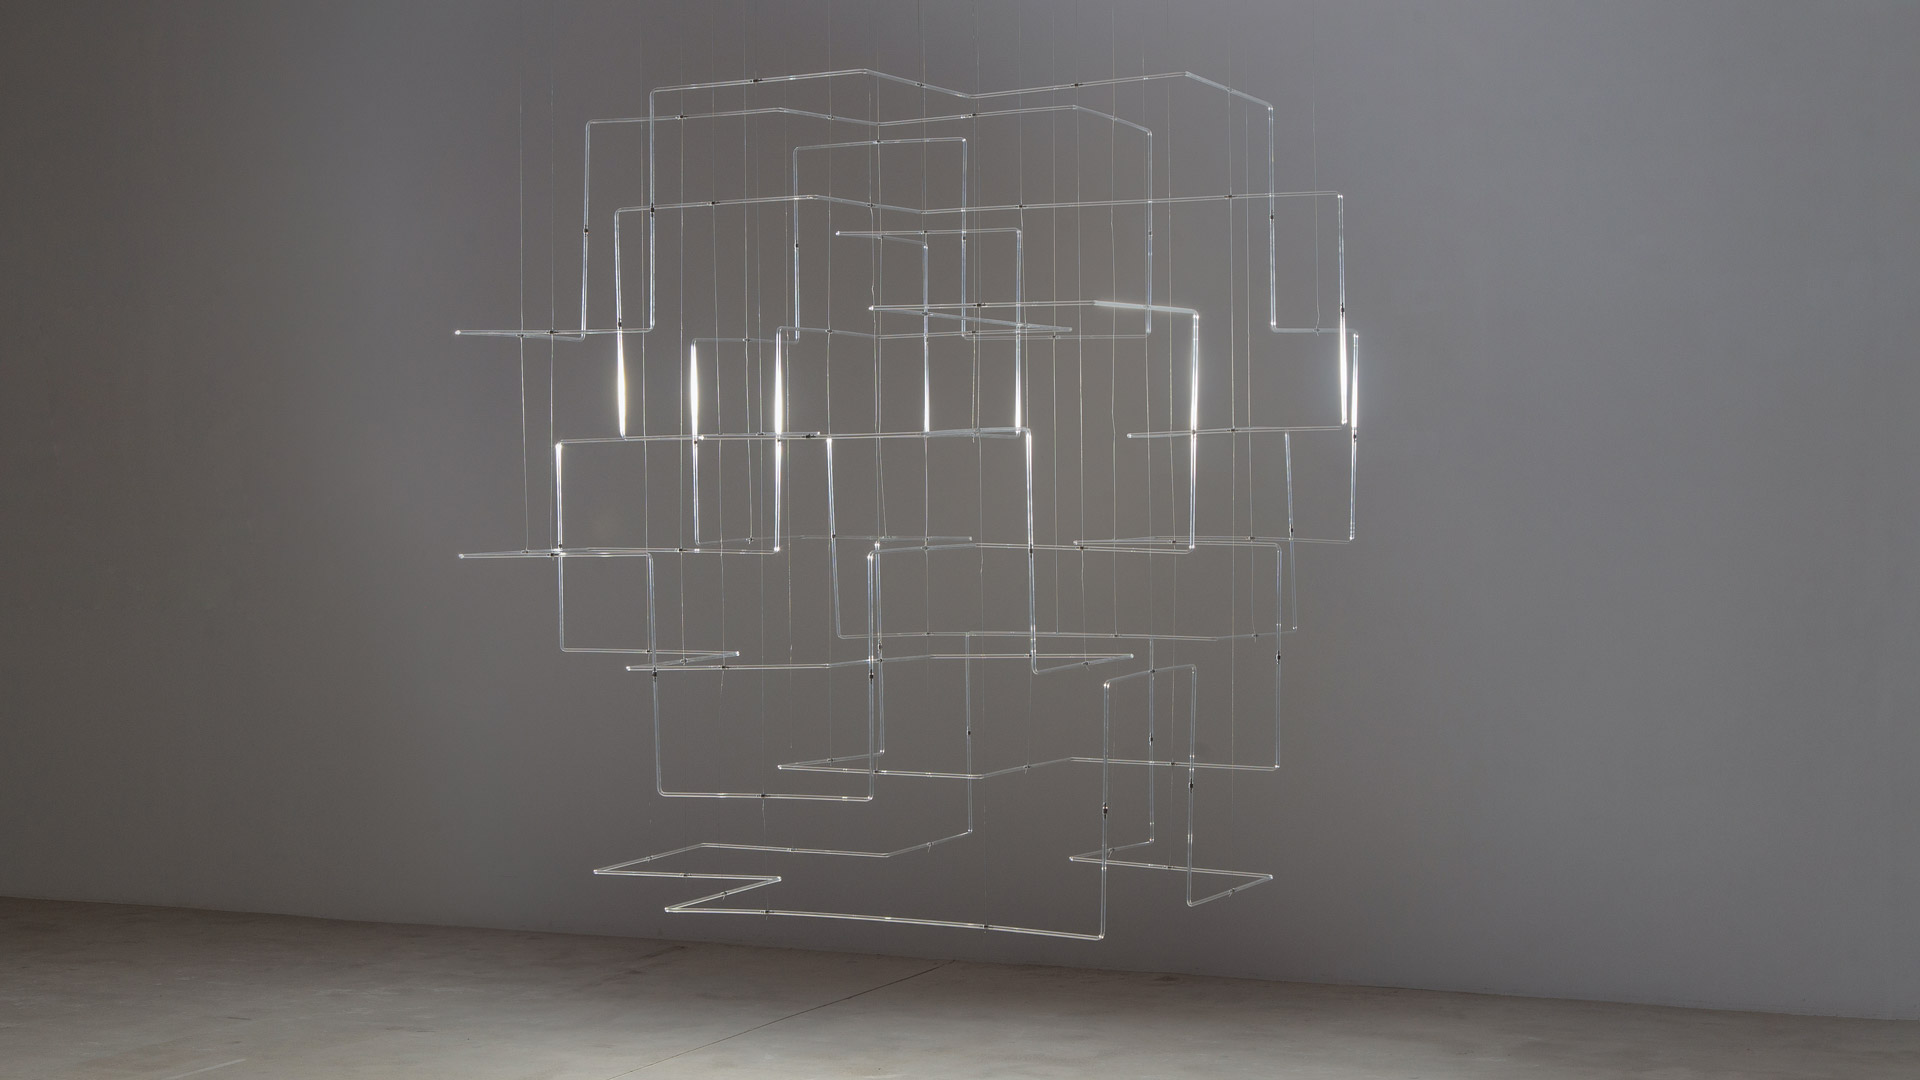
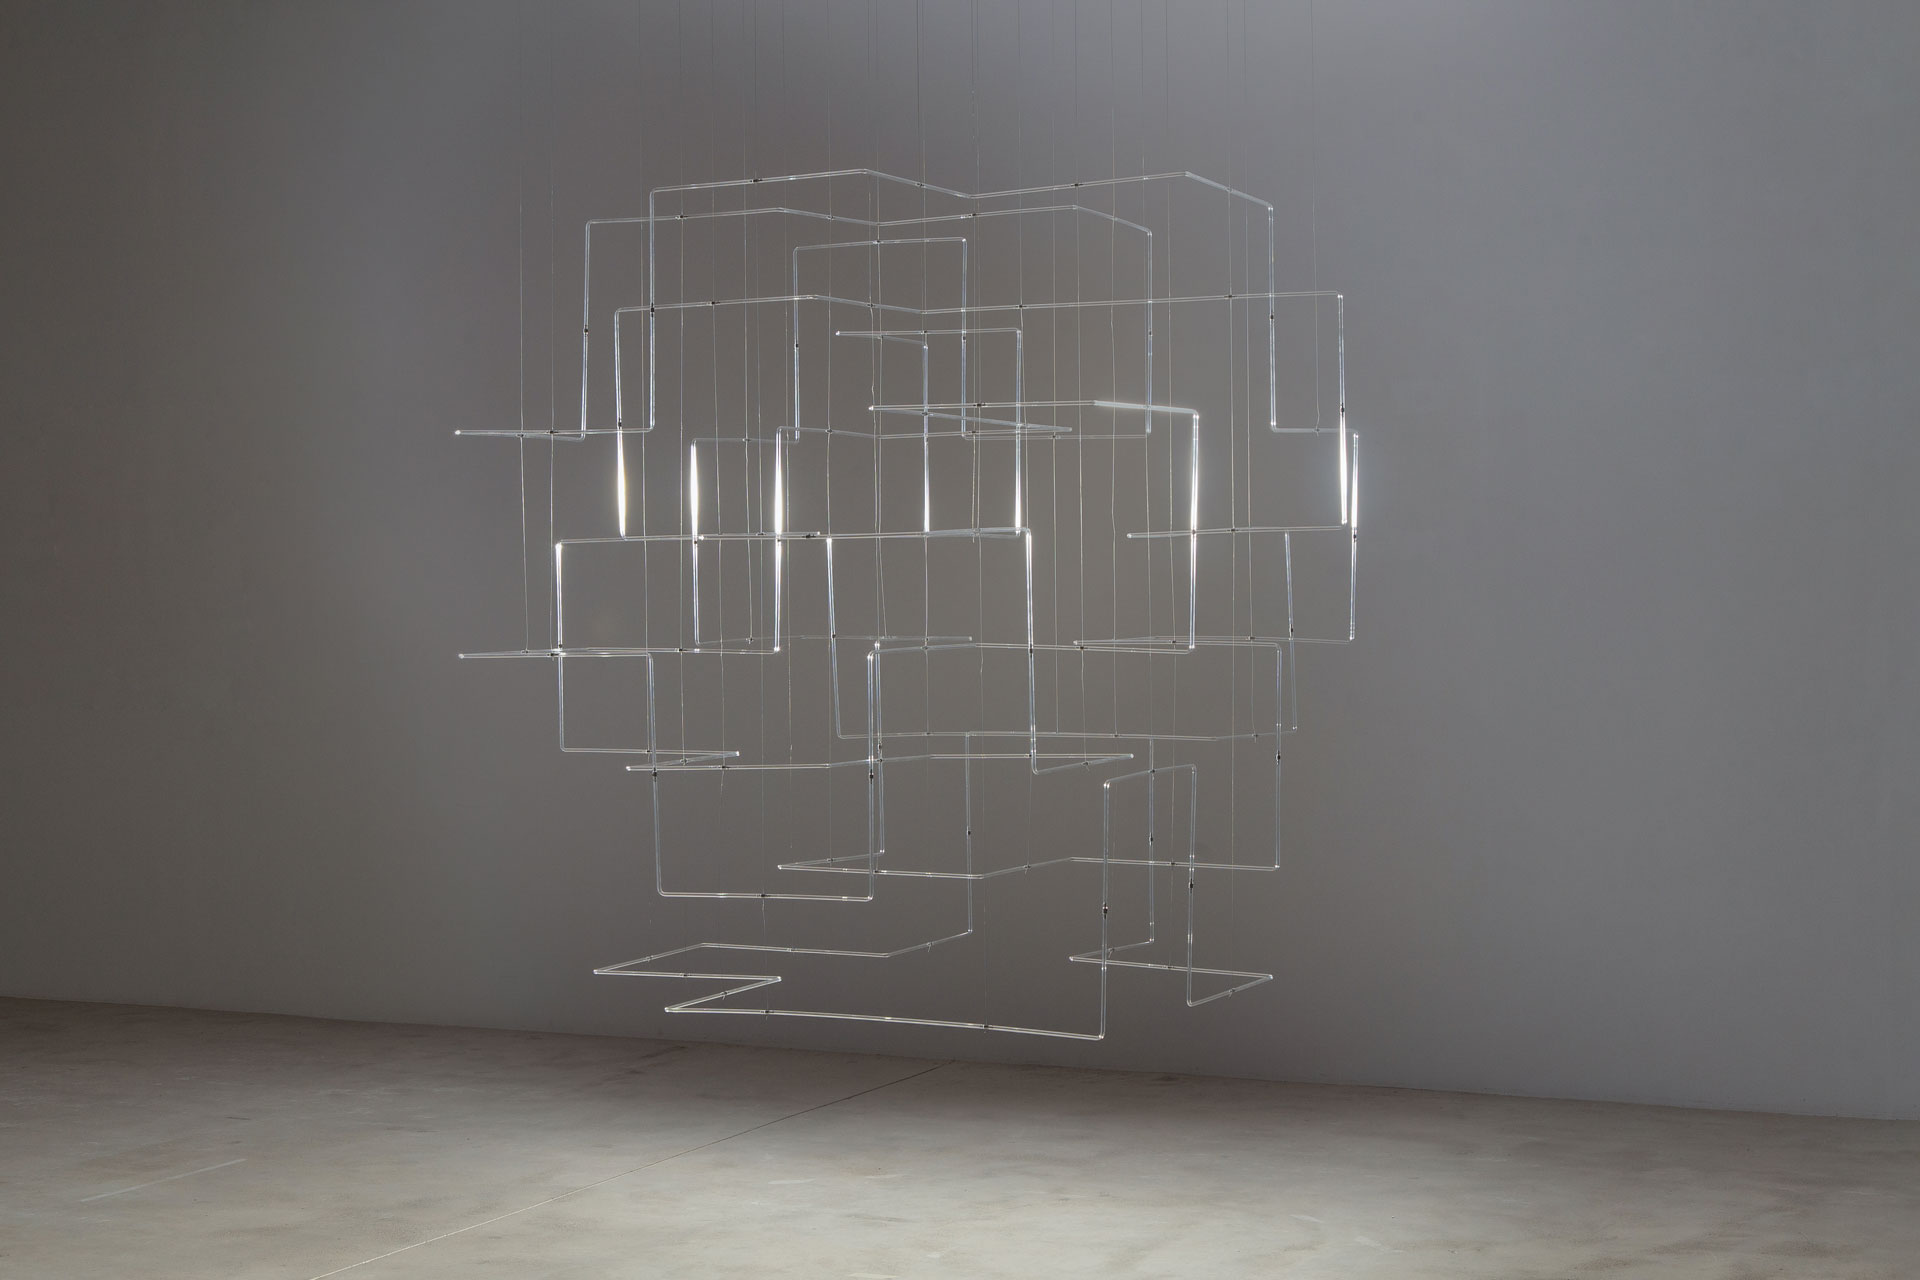
2024_puolenvaihto updated.

diff --git a/projects/2024/2024_puolenvaihto.html b/projects/2024/2024_puolenvaihto.html
@@ -62,13 +62,18 @@
           is to depict the constantly changing rhythm of the football game in an abstract way.
           <br>
           <br>
-          Through the glass façade at both ends of the stadium, the light installation is also visible from the street,
+          Through the glass facade at both ends of the stadium, the light installation is also visible from the street,
           thus making it more public. The work is on in the evenings, even if there is no activity in the stadium.
         </p>
       </div>
       <div class="column right">
-        <a href="../YEAR_template/GN_Website_PlaceholderImage.png" target="_blank">
-          <img src="../YEAR_template/GN_Website_PlaceholderImage.png" alt="GN_Website_PlaceholderImage">
+        <a href="2024_GN_Puolenvaihto_Tampere_1.jpg" target="_blank">
+          <img src="2024_GN_Puolenvaihto_Tampere_1.jpg" alt="Puolenvaihto 1">
+        </a>
+        <br>
+        <br>
+        <a href="2024_GN_Puolenvaihto_Tampere_2.jpg" target="_blank">
+          <img src="2024_GN_Puolenvaihto_Tampere_2.jpg" alt="Puolenvaihto 2">
         </a>
       </div>
     </div>

diff --git a/projects/projects.html b/projects/projects.html
@@ -34,7 +34,7 @@
                         <br>
                         <div class="gallery-row left">
                             <a href="2024/2024_puolenvaihto.html">
-                                <img class="gallery" src="YEAR_template/GN_Website_PlaceholderImage.png"
+                                <img class="gallery" src="2024/2024_GN_Puolenvaihto_Tampere_1.jpg"
                                     alt="">
                                 <p class="title">Puolenvaihto, Tammela Football Stadium, Tampere</p>
                             </a>
